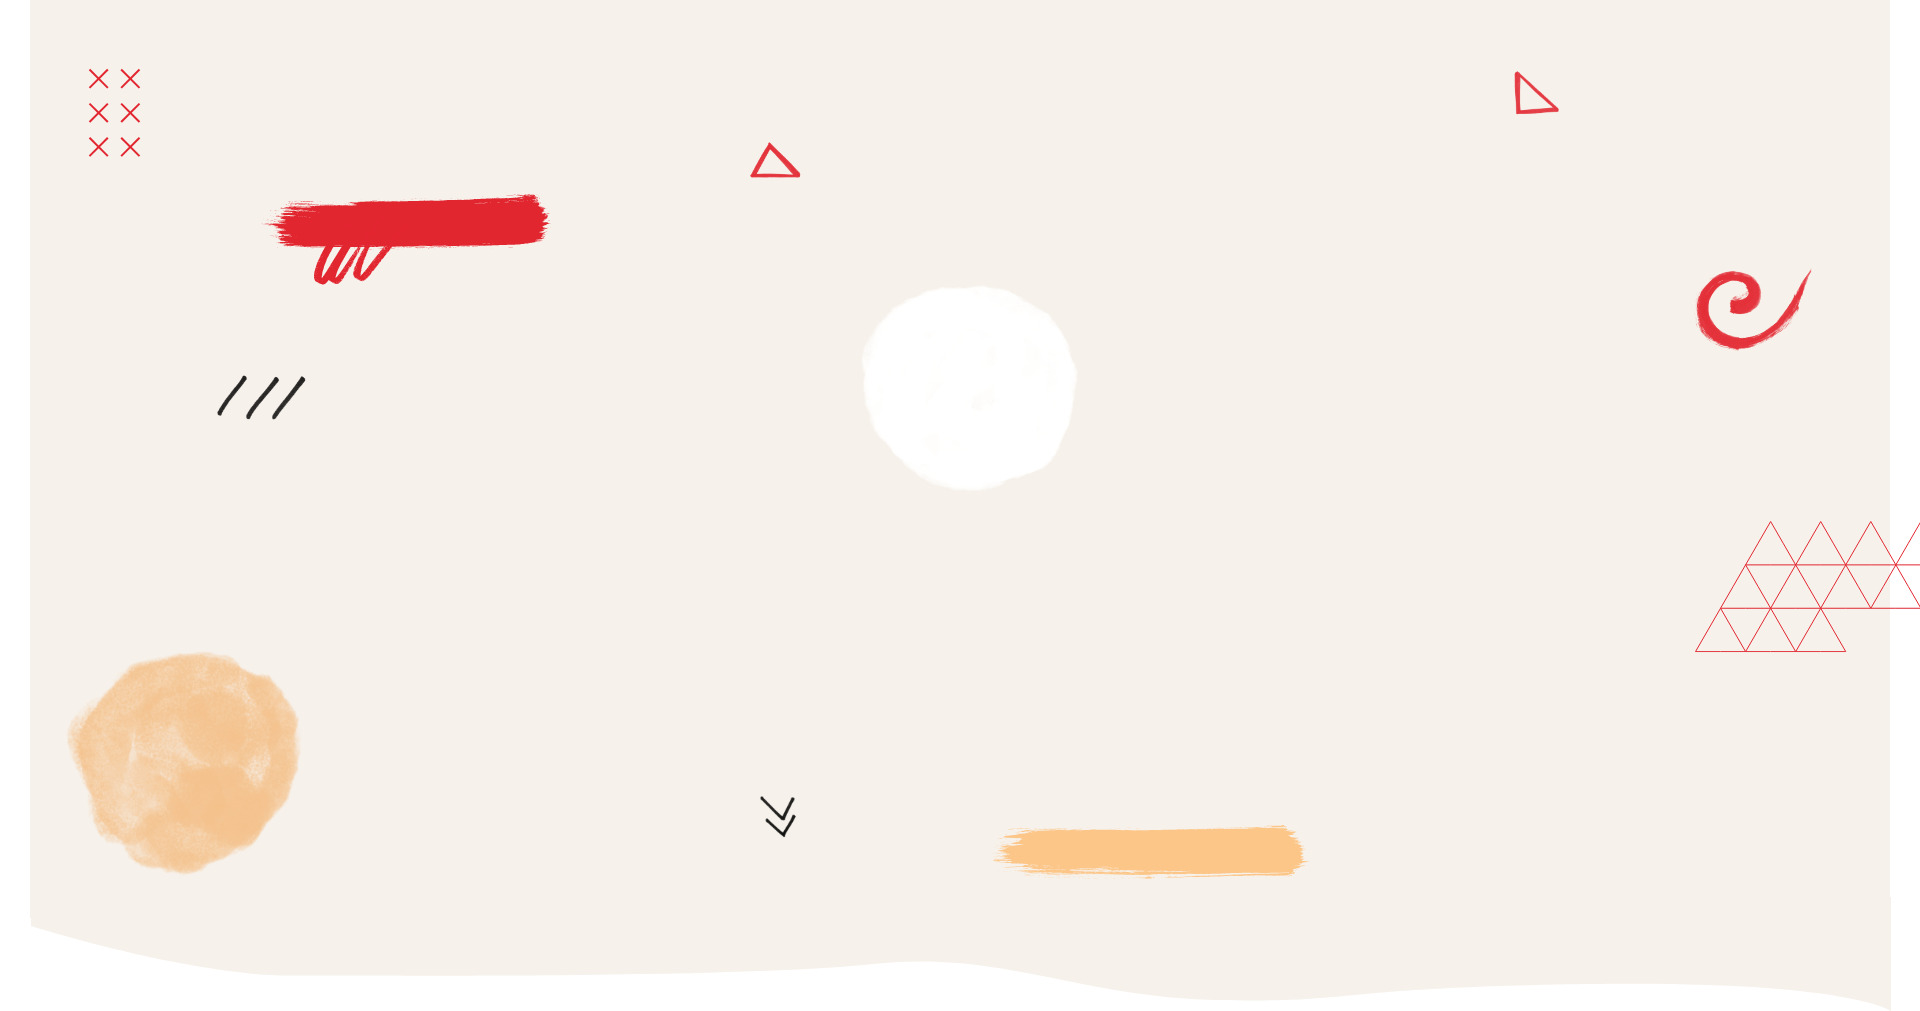
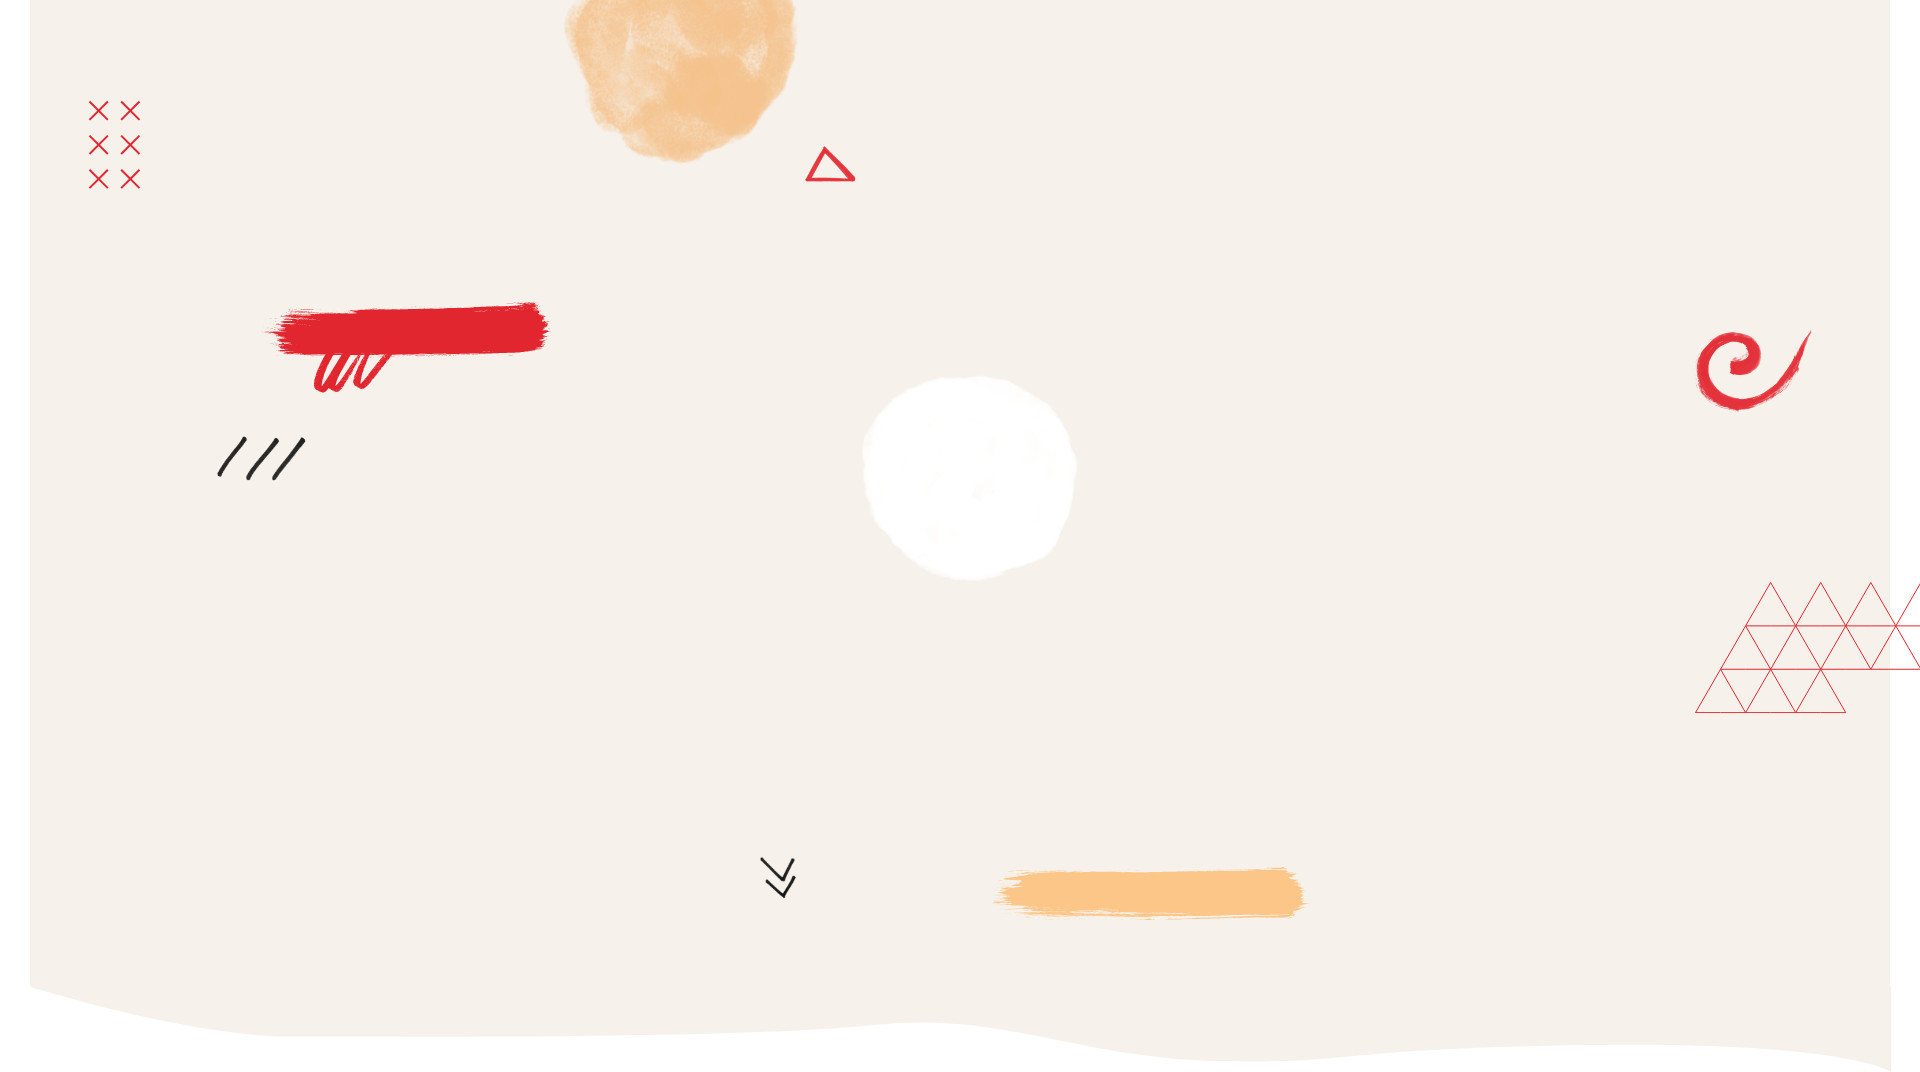
proporcionální hlavička

diff --git a/web/soubory/blackarrow/gchlavicka/gchlavicka.less b/web/soubory/blackarrow/gchlavicka/gchlavicka.less
@@ -1,8 +1,7 @@
 .gchlavicka {
     position: relative;
-    background: url('../blackarrow/gchlavicka/pozadi.jpg') no-repeat;
-    background-size: contain;
-    height: 1011rel;
+    background: url('../blackarrow/gchlavicka/pozadi.jpg') no-repeat 0 0 ~'/' 100% 100%;
+    height: 113vh;
     overflow: hidden;
     @media (max-width: 600px) {
         background-image: url('../blackarrow/gchlavicka/pozadi-mobil.jpg');
@@ -13,17 +12,18 @@
 
 .gchlavicka > .p {
     position: absolute;
-    font-size: 230/19.2vw;
+    font-size: 200/19.2vw;
     font-weight: 800;
+    line-height: 0.58; // aby spodek písmen seděl se spodkem elementu
     @media (max-width: 600px) {
         font-size: 60/3.2vw;
         line-height: 1.5;
     }
 }
-.p1 { top:  20/19.2vw; left: 285/19.2vw; }
-.p2 { top: 191/19.2vw; left: 722/19.2vw; }
-.p3 { top: 443/19.2vw; left: 683/19.2vw; }
-.p4 { top: 641/19.2vw; left: 933/19.2vw; }
+.p1 { bottom: 68%; left: 285/19.2vw; }
+.p2 { bottom: 57%; left: 688/19.2vw; }
+.p3 { bottom: 33%; left: 749/19.2vw; }
+.p4 { bottom: 16%; left: 933/19.2vw; }
 @media (max-width: 600px) {
     .p1 { top:  53/3.2vw; left:  16/3.2vw; }
     .p2 { top:  65/3.2vw; left: 151/3.2vw; }
@@ -34,8 +34,8 @@
 .gchlavicka > .img1 {
     position: absolute;
     width: 22.031vw;
-    top: 27.343vw;
-    left: 7.604vw;
+    top: 53%;
+    left: 8%;
     @media (max-width: 600px) {
         top: 260/3.2vw;
         left: 20/3.2vw;
@@ -46,7 +46,7 @@
 .gchlavicka > .img2 {
     position: absolute;
     width: 26.042vw;
-    top: 1.562vw;
+    bottom: 34%;
     left: 51.042vw;
     @media (max-width: 600px) { display: none; }
 }
@@ -54,8 +54,8 @@
 .gchlavicka_claim {
     position: absolute;
     font-size: 20px;
-    top: 475/19.2vw;
-    left: 148/19.2vw;
+    top: 48.5%;
+    left: 8%;
     @media (max-width: 600px) {
         font-size: 14/3.2vw;
         top: 28px;
@@ -73,10 +73,11 @@
     width: 252rel;
     padding: 15rel 0 15rel 50rel;
     box-sizing: border-box;
-    top: 605/19.2vw;
-    left: 1227/19.2vw;
+    bottom: 31%;
+    left: 65.7%;
     @media (max-width: 600px) {
         top: 245/3.2vw;
+        bottom: unset;
         left: 118.3/3.2vw;
     }
 }
@@ -88,7 +89,7 @@
     font-weight: 800;
     font-size: 42rel;
     line-height: 56rel;
-    top: 151rel;
+    bottom: 33%;
     left: 1500rel;
 }
 
@@ -96,8 +97,8 @@
     display: block;
     position: absolute;
     vertical-align: top;
-    top: 762/19.2vw;
-    left: 1536/19.2vw;
+    top: 76%;
+    left: 81%;
     line-height: 44px;
     font-weight: bold;
     text-transform: uppercase;

diff --git a/web/soubory/blackarrow/poznamky.md b/web/soubory/blackarrow/poznamky.md
@@ -28,6 +28,7 @@
 - [ ] fotky linií
 - [ ] menu: menu uživatele
 - [ ] skákání při načtení (asi výška menu a fonty)
+- [x] proporciální hlavička
 
 - [ ] program
     - [x] scrollery
